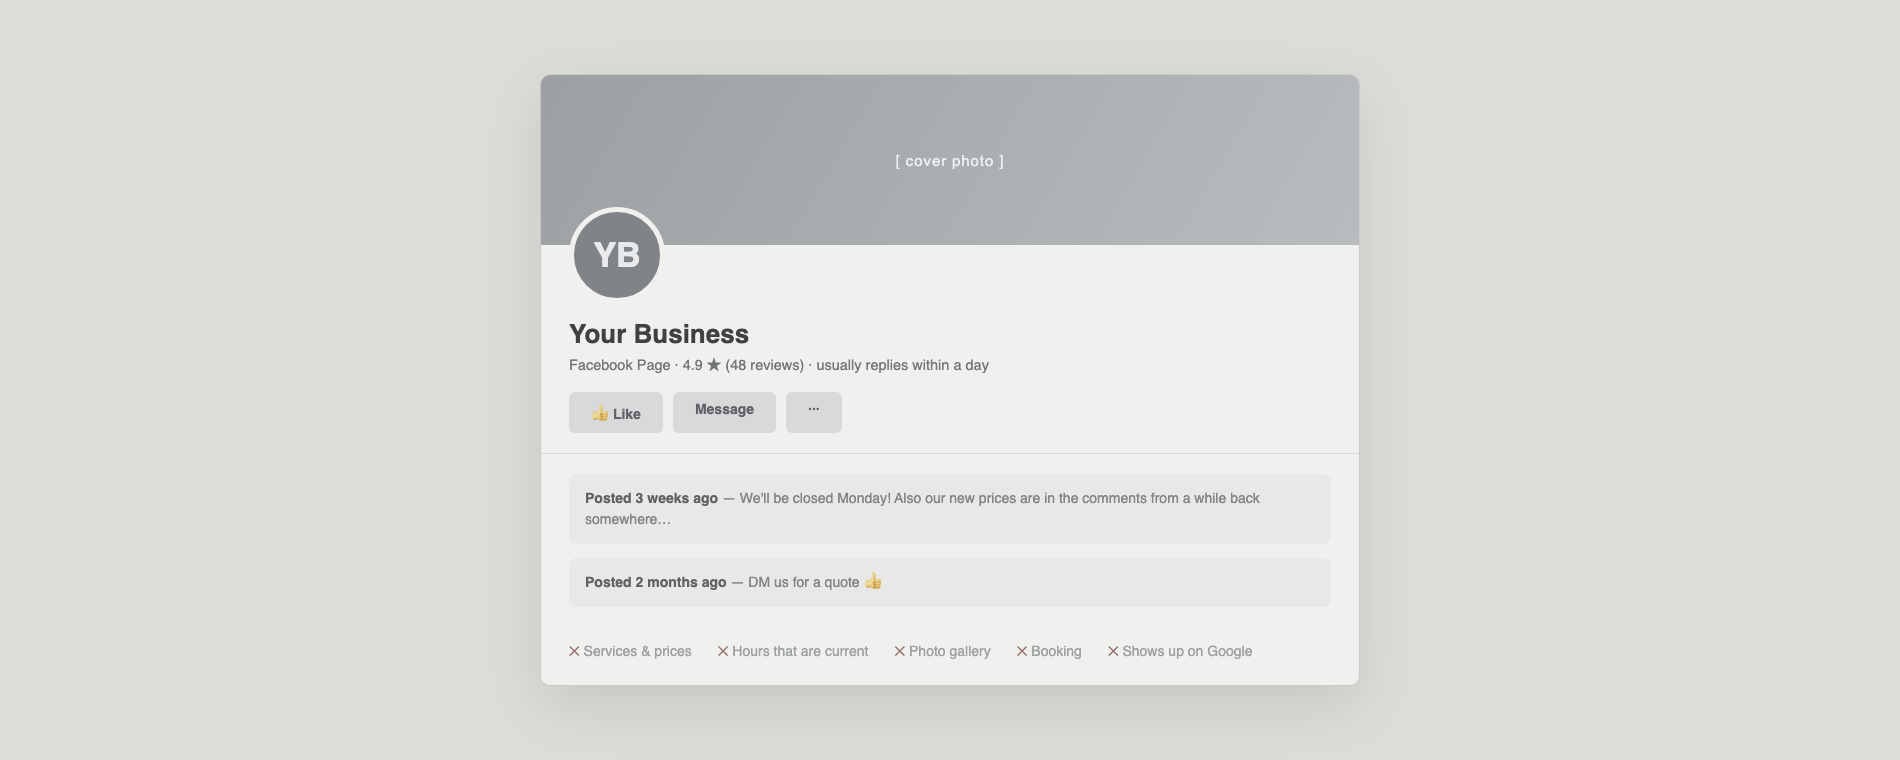
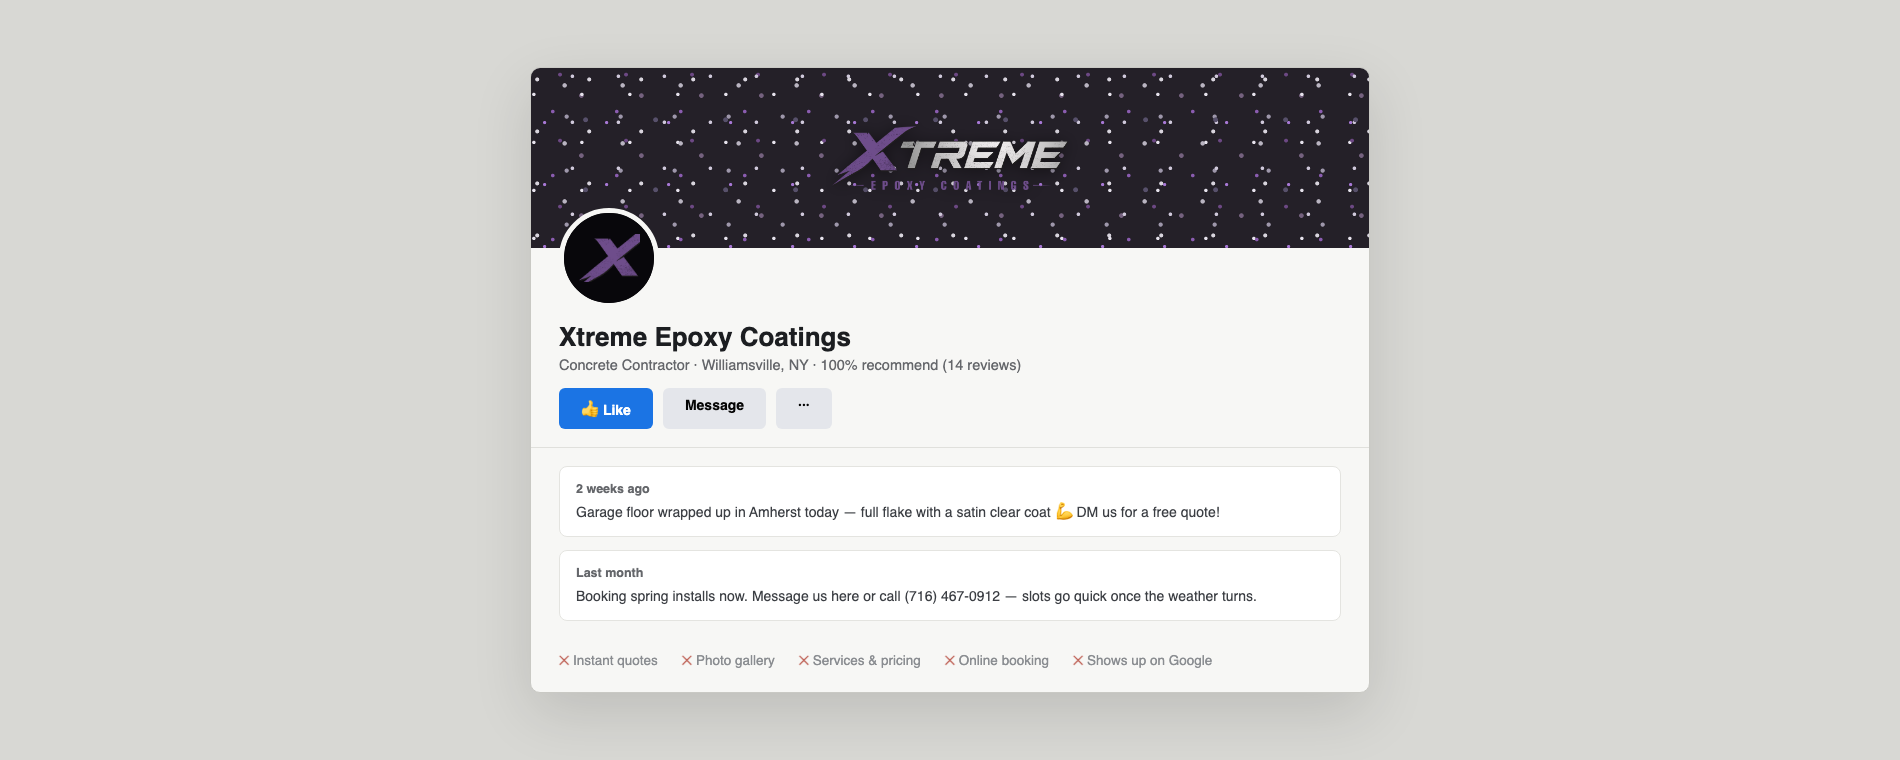
Reorder homepage, move before/after slider to templates page
- Homepage: Our Work now sits between the templates band and How It
  Works; nav/footer links reordered to match; How It Works switched
  to a plain background to avoid stacked gray bands.
- Before/after slider removed from the homepage entirely (HTML/CSS/JS)
  and relocated to the bottom of the templates page under a "See what
  we can do" heading.
- Rebuilt the "before" mock as a believable Xtreme Epoxy Coatings
  Facebook page (real logo, flake-texture cover, real phone) so the
  before/after pair reads as one true client story.

Changed region(s): [[0.2795, 0.0908, 0.7453, 0.9079]]

diff --git a/index.html b/index.html
@@ -69,8 +69,8 @@
       <ul class="nav-links" id="nav-menu">
         <li><a href="#services">Services</a></li>
         <li><a href="templates/index.html">Templates</a></li>
-        <li><a href="#pricing">Pricing</a></li>
         <li><a href="#work">Our Work</a></li>
+        <li><a href="#pricing">Pricing</a></li>
         <li><a href="#faq">FAQ</a></li>
         <li><a href="#contact" class="nav-cta">Get a Free Demo</a></li>
       </ul>
@@ -225,8 +225,62 @@
       </div>
     </section>
 
+    <!-- ============ WORK / PORTFOLIO ============ -->
+    <section id="work" class="section section-muted">
+      <div class="container">
+        <header class="section-head">
+          <h2>Our Work</h2>
+          <p>A few things we've built.</p>
+        </header>
+
+        <div class="grid grid-2">
+          <article class="card project">
+            <a href="https://mineralcalc.com" target="_blank" rel="noopener" class="project-thumb">
+              <img src="assets/mineralcalc.png" alt="Screenshot of MineralCalc"
+                   onerror="this.onerror=null;this.src='assets/placeholder.svg';" />
+            </a>
+            <h3>MineralCalc</h3>
+            <p>
+              A free web app that helps mineral owners model oil &amp; gas royalty income —
+              decline-curve projections, NPV, lease-vs-royalty comparisons, and a full
+              education section with a glossary and tax references.
+            </p>
+            <a href="https://mineralcalc.com" target="_blank" rel="noopener" class="project-link">Visit site &rarr;</a>
+          </article>
+
+          <article class="card project">
+            <a href="https://aogerardi.github.io/Giland/" target="_blank" rel="noopener" class="project-thumb">
+              <img src="assets/giland.png" alt="Screenshot of Giland Auto Detailing"
+                   onerror="this.onerror=null;this.src='assets/placeholder.svg';" />
+            </a>
+            <h3>Giland Auto Detailing</h3>
+            <p>
+              A mobile detailing business in Naperville, IL &mdash; service menu with pricing,
+              package deals, a before/after results slider, a work gallery, and tap-to-text
+              booking. Built mobile-first for customers on the go.
+            </p>
+            <a href="https://aogerardi.github.io/Giland/" target="_blank" rel="noopener" class="project-link">Visit site &rarr;</a>
+          </article>
+
+          <article class="card project">
+            <a href="https://xtreme-epoxycoatings.com" target="_blank" rel="noopener" class="project-thumb">
+              <img src="assets/xtreme-epoxy.png" alt="Screenshot of Xtreme Epoxy Coatings"
+                   onerror="this.onerror=null;this.src='assets/placeholder.svg';" />
+            </a>
+            <h3>Xtreme Epoxy Coatings</h3>
+            <p>
+              A floor-coating contractor in Western New York &mdash; instant ballpark quote
+              builder, free-estimate booking, flake color picker, and lead capture wired
+              straight into their inbox.
+            </p>
+            <a href="https://xtreme-epoxycoatings.com" target="_blank" rel="noopener" class="project-link">Visit site &rarr;</a>
+          </article>
+        </div>
+      </div>
+    </section>
+
     <!-- ============ HOW IT WORKS ============ -->
-    <section id="process" class="section section-muted">
+    <section id="process" class="section">
       <div class="container">
         <header class="section-head">
           <h2>How It Works</h2>
@@ -323,78 +377,6 @@
               <p>Own the domain outright. No monthly fees &mdash; you&rsquo;re in full control. Edits and support available on request at a flat rate.</p>
             </article>
           </div>
-        </div>
-      </div>
-    </section>
-
-    <!-- ============ WORK / PORTFOLIO ============ -->
-    <section id="work" class="section section-muted">
-      <div class="container">
-        <header class="section-head">
-          <h2>Our Work</h2>
-          <p>A few things we've built.</p>
-        </header>
-
-        <!-- Before / after comparison slider -->
-        <div class="ba" id="ba-slider">
-          <div class="ba-frame">
-            <img class="ba-after" src="assets/xtreme-epoxy.png" alt="After — a website built by Piedmondo" draggable="false" />
-            <div class="ba-before-clip">
-              <img class="ba-before" src="assets/before-fb.png" alt="Before — a Facebook page as the only web presence" draggable="false" />
-            </div>
-            <div class="ba-line">
-              <span class="ba-handle">
-                <svg width="16" height="16" viewBox="0 0 24 24" fill="none" stroke="currentColor" stroke-width="2.4" stroke-linecap="round" stroke-linejoin="round"><path d="M8 7l-5 5 5 5M16 7l5 5-5 5"/></svg>
-              </span>
-            </div>
-            <span class="ba-tag ba-tag-before">Before</span>
-            <span class="ba-tag ba-tag-after">After</span>
-          </div>
-          <p class="ba-cap">Drag to compare — from a Facebook page to a site that sells.</p>
-        </div>
-
-        <div class="grid grid-2">
-          <article class="card project">
-            <a href="https://mineralcalc.com" target="_blank" rel="noopener" class="project-thumb">
-              <img src="assets/mineralcalc.png" alt="Screenshot of MineralCalc"
-                   onerror="this.onerror=null;this.src='assets/placeholder.svg';" />
-            </a>
-            <h3>MineralCalc</h3>
-            <p>
-              A free web app that helps mineral owners model oil &amp; gas royalty income —
-              decline-curve projections, NPV, lease-vs-royalty comparisons, and a full
-              education section with a glossary and tax references.
-            </p>
-            <a href="https://mineralcalc.com" target="_blank" rel="noopener" class="project-link">Visit site &rarr;</a>
-          </article>
-
-          <article class="card project">
-            <a href="https://aogerardi.github.io/Giland/" target="_blank" rel="noopener" class="project-thumb">
-              <img src="assets/giland.png" alt="Screenshot of Giland Auto Detailing"
-                   onerror="this.onerror=null;this.src='assets/placeholder.svg';" />
-            </a>
-            <h3>Giland Auto Detailing</h3>
-            <p>
-              A mobile detailing business in Naperville, IL &mdash; service menu with pricing,
-              package deals, a before/after results slider, a work gallery, and tap-to-text
-              booking. Built mobile-first for customers on the go.
-            </p>
-            <a href="https://aogerardi.github.io/Giland/" target="_blank" rel="noopener" class="project-link">Visit site &rarr;</a>
-          </article>
-
-          <article class="card project">
-            <a href="https://xtreme-epoxycoatings.com" target="_blank" rel="noopener" class="project-thumb">
-              <img src="assets/xtreme-epoxy.png" alt="Screenshot of Xtreme Epoxy Coatings"
-                   onerror="this.onerror=null;this.src='assets/placeholder.svg';" />
-            </a>
-            <h3>Xtreme Epoxy Coatings</h3>
-            <p>
-              A floor-coating contractor in Western New York &mdash; instant ballpark quote
-              builder, free-estimate booking, flake color picker, and lead capture wired
-              straight into their inbox.
-            </p>
-            <a href="https://xtreme-epoxycoatings.com" target="_blank" rel="noopener" class="project-link">Visit site &rarr;</a>
-          </article>
         </div>
       </div>
     </section>
@@ -515,9 +497,9 @@
       </div>
       <nav class="footer-nav" aria-label="Footer">
         <a href="#services">Services</a>
-        <a href="#pricing">Pricing</a>
-        <a href="#work">Work</a>
         <a href="#templates">Templates</a>
+        <a href="#work">Work</a>
+        <a href="#pricing">Pricing</a>
         <a href="#faq">FAQ</a>
       </nav>
       <div class="footer-contact">

diff --git a/templates/index.html b/templates/index.html
@@ -86,6 +86,27 @@
     .soon div{color:var(--muted);}
     .soon h3{font-size:1.3rem;color:var(--fg);margin-bottom:.5rem;}
 
+    /* Before / after slider — "See what we can do" */
+    .ba-section{padding:2rem 0 5rem;}
+    .ba-head{text-align:center;max-width:620px;margin:0 auto 2.5rem;}
+    .ba-head h2{font-size:clamp(1.9rem,4vw,2.7rem);margin-bottom:.6rem;}
+    .ba-head p{color:var(--muted);font-size:1.05rem;}
+    .ba{max-width:860px;margin:0 auto;}
+    .ba-frame{position:relative;border:1px solid var(--border);border-radius:10px;overflow:hidden;
+      aspect-ratio:1900/760;background:var(--bg-muted);cursor:ew-resize;user-select:none;-webkit-user-select:none;
+      touch-action:none;box-shadow:var(--shadow);}
+    .ba-frame img{position:absolute;inset:0;width:100%;height:100%;object-fit:cover;}
+    .ba-before-clip{position:absolute;inset:0;clip-path:inset(0 50% 0 0);will-change:clip-path;}
+    .ba-line{position:absolute;top:0;bottom:0;left:50%;width:2px;background:var(--fg);transform:translateX(-1px);}
+    .ba-handle{position:absolute;top:50%;left:50%;transform:translate(-50%,-50%);width:42px;height:42px;
+      border-radius:50%;background:var(--fg);color:var(--bg);display:flex;align-items:center;justify-content:center;
+      box-shadow:0 6px 18px rgba(0,0,0,.3);}
+    .ba-tag{position:absolute;top:12px;font-size:.68rem;letter-spacing:.1em;text-transform:uppercase;font-weight:600;
+      padding:.28rem .65rem;border-radius:999px;background:rgba(17,17,17,.85);color:#fff;font-family:var(--font-body);}
+    .ba-tag-before{left:12px;}
+    .ba-tag-after{right:12px;}
+    .ba-cap{text-align:center;color:var(--muted);font-size:.9rem;margin-top:.9rem;}
+
     /* CTA */
     .cta{background:var(--fg);color:var(--bg);text-align:center;padding:4.5rem 1.5rem;}
     .cta h2{font-size:clamp(1.8rem,4vw,2.6rem);margin-bottom:.8rem;}
@@ -268,6 +289,33 @@
     </div>
   </div>
 
+  <!-- ============ SEE WHAT WE CAN DO: before/after ============ -->
+  <section class="ba-section">
+    <div class="container">
+      <div class="ba-head">
+        <span class="eyebrow">Before &amp; After</span>
+        <h2>See what we can do.</h2>
+        <p>A real client &mdash; Xtreme Epoxy Coatings went from a Facebook page to a website that sells. Drag the handle.</p>
+      </div>
+      <div class="ba" id="ba-slider">
+        <div class="ba-frame">
+          <img class="ba-after" src="../assets/xtreme-epoxy.png" alt="After — the website Piedmondo built for Xtreme Epoxy Coatings" draggable="false" />
+          <div class="ba-before-clip">
+            <img class="ba-before" src="../assets/before-fb.png" alt="Before — a Facebook page as the only web presence" draggable="false" />
+          </div>
+          <div class="ba-line">
+            <span class="ba-handle">
+              <svg width="16" height="16" viewBox="0 0 24 24" fill="none" stroke="currentColor" stroke-width="2.4" stroke-linecap="round" stroke-linejoin="round"><path d="M8 7l-5 5 5 5M16 7l5 5-5 5"/></svg>
+            </span>
+          </div>
+          <span class="ba-tag ba-tag-before">Before</span>
+          <span class="ba-tag ba-tag-after">After</span>
+        </div>
+        <p class="ba-cap">Drag to compare &mdash; from a Facebook page to a site that sells.</p>
+      </div>
+    </div>
+  </section>
+
   <section class="cta">
     <h2>Like what you see?</h2>
     <p>We'll tailor any of these to your business — your photos, your colors, your content — starting at just $250.</p>
@@ -277,5 +325,34 @@
   <footer class="footer">
     <p>&copy; 2026 Piedmondo. Template demos use sample content &amp; stock photos.</p>
   </footer>
+
+  <script>
+    // Before/after slider drag
+    (function () {
+      var ba = document.getElementById('ba-slider');
+      if (!ba) return;
+      var frame = ba.querySelector('.ba-frame');
+      var clip = ba.querySelector('.ba-before-clip');
+      var line = ba.querySelector('.ba-line');
+      var dragging = false;
+
+      function setPos(clientX) {
+        var rect = frame.getBoundingClientRect();
+        var pct = ((clientX - rect.left) / rect.width) * 100;
+        pct = Math.max(2, Math.min(98, pct));
+        clip.style.clipPath = 'inset(0 ' + (100 - pct).toFixed(2) + '% 0 0)';
+        line.style.left = pct.toFixed(2) + '%';
+      }
+
+      frame.addEventListener('pointerdown', function (e) {
+        dragging = true;
+        frame.setPointerCapture(e.pointerId);
+        setPos(e.clientX);
+      });
+      frame.addEventListener('pointermove', function (e) { if (dragging) setPos(e.clientX); });
+      frame.addEventListener('pointerup', function () { dragging = false; });
+      frame.addEventListener('pointercancel', function () { dragging = false; });
+    })();
+  </script>
 </body>
 </html>

diff --git a/styles.css b/styles.css
@@ -817,74 +817,6 @@ a.project-thumb:hover img { transform: scale(1.03); }
 .tpl-hover-preview img { width: 100%; height: 100%; object-fit: cover; object-position: top; display: block; }
 @media (hover: none), (max-width: 860px) { .tpl-hover-preview { display: none; } }
 
-/* ---------- Before / after slider ---------- */
-.ba { max-width: 860px; margin: 0 auto 3.5rem; }
-.ba-frame {
-  position: relative;
-  border: 1px solid var(--border);
-  border-radius: 10px;
-  overflow: hidden;
-  aspect-ratio: 1900 / 760;
-  background: var(--bg-muted);
-  cursor: ew-resize;
-  user-select: none;
-  -webkit-user-select: none;
-  touch-action: none;
-  box-shadow: var(--shadow);
-}
-.ba-frame img {
-  position: absolute;
-  inset: 0;
-  width: 100%;
-  height: 100%;
-  object-fit: cover;
-}
-.ba-before-clip {
-  position: absolute;
-  inset: 0;
-  clip-path: inset(0 50% 0 0);
-  will-change: clip-path;
-}
-.ba-line {
-  position: absolute;
-  top: 0;
-  bottom: 0;
-  left: 50%;
-  width: 2px;
-  background: var(--fg);
-  transform: translateX(-1px);
-}
-.ba-handle {
-  position: absolute;
-  top: 50%;
-  left: 50%;
-  transform: translate(-50%, -50%);
-  width: 42px;
-  height: 42px;
-  border-radius: 50%;
-  background: var(--fg);
-  color: var(--bg);
-  display: flex;
-  align-items: center;
-  justify-content: center;
-  box-shadow: 0 6px 18px rgba(0, 0, 0, 0.3);
-}
-.ba-tag {
-  position: absolute;
-  top: 12px;
-  font-size: 0.68rem;
-  letter-spacing: 0.1em;
-  text-transform: uppercase;
-  font-weight: 600;
-  padding: 0.28rem 0.65rem;
-  border-radius: 999px;
-  background: rgba(17, 17, 17, 0.85);
-  color: #fff;
-}
-.ba-tag-before { left: 12px; }
-.ba-tag-after { right: 12px; }
-.ba-cap { text-align: center; color: var(--muted); font-size: 0.9rem; margin-top: 0.9rem; }
-
 /* ---------- Scroll-drawn details ----------
    Hidden states are scoped to .reveal (added by JS), so users without
    JS — or with reduced motion, where .in is applied immediately — always

diff --git a/main.js b/main.js
@@ -117,7 +117,7 @@ function setStatus(msg, type) {
 
   // Elements that fade/slide in as they enter the viewport
   const revealEls = document.querySelectorAll(
-    '.section-head, .card, .price-card, .step, .steps, .faq-item, .pitch, .templates-inner, .stat, .ba'
+    '.section-head, .card, .price-card, .step, .steps, .faq-item, .pitch, .templates-inner, .stat'
   );
 
   if (reduce || !supported) {
@@ -182,32 +182,6 @@ function setStatus(msg, type) {
       });
       link.addEventListener('mousemove', aim);
     });
-  }
-
-  /* ---------- Before / after slider ---------- */
-  const ba = document.getElementById('ba-slider');
-  if (ba) {
-    const frame = ba.querySelector('.ba-frame');
-    const clip = ba.querySelector('.ba-before-clip');
-    const line = ba.querySelector('.ba-line');
-    let dragging = false;
-
-    function setPos(clientX) {
-      const rect = frame.getBoundingClientRect();
-      let pct = ((clientX - rect.left) / rect.width) * 100;
-      pct = Math.max(2, Math.min(98, pct));
-      clip.style.clipPath = 'inset(0 ' + (100 - pct).toFixed(2) + '% 0 0)';
-      line.style.left = pct.toFixed(2) + '%';
-    }
-
-    frame.addEventListener('pointerdown', (e) => {
-      dragging = true;
-      frame.setPointerCapture(e.pointerId);
-      setPos(e.clientX);
-    });
-    frame.addEventListener('pointermove', (e) => { if (dragging) setPos(e.clientX); });
-    frame.addEventListener('pointerup', () => { dragging = false; });
-    frame.addEventListener('pointercancel', () => { dragging = false; });
   }
 
   /* ---------- Proof band: real measured load time ---------- */